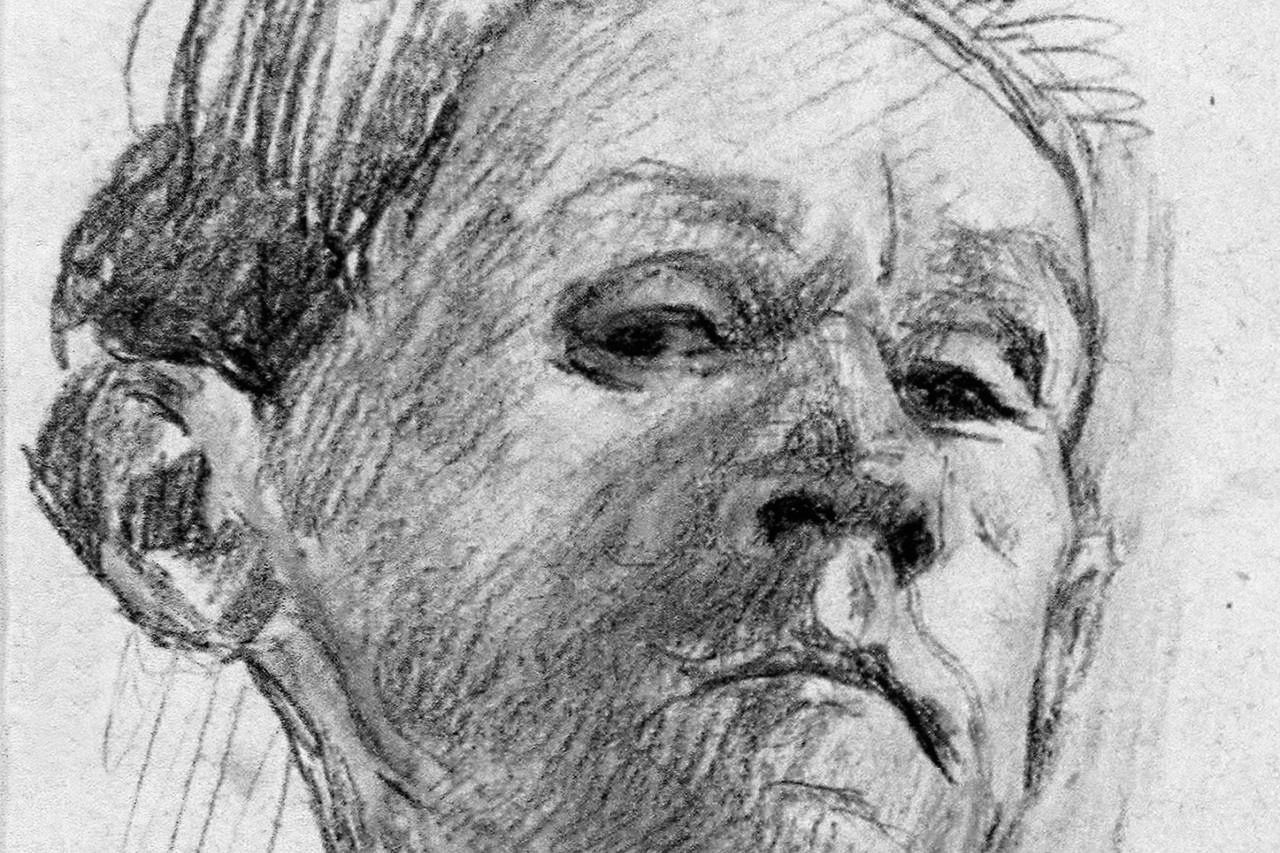
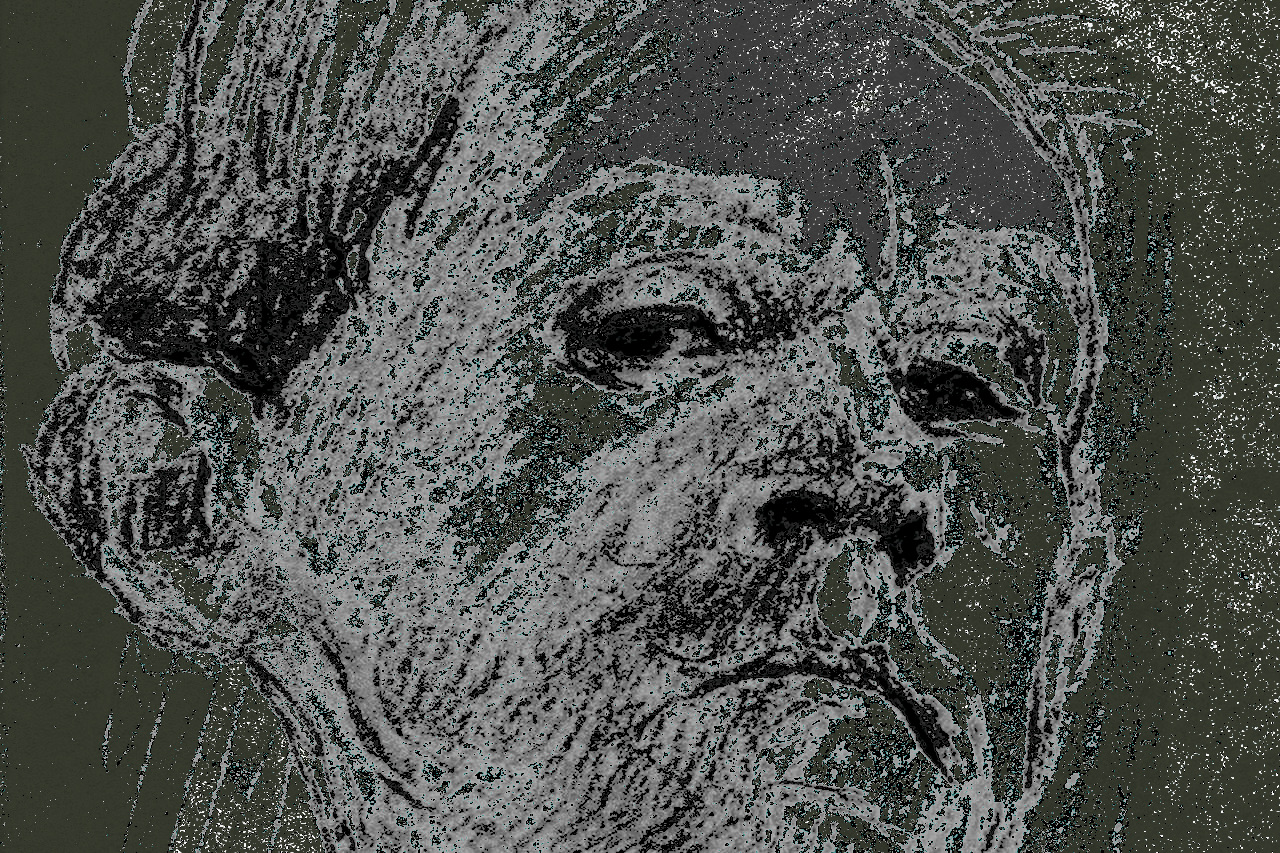
recoloured an image and changed

diff --git a/index.html b/index.html
@@ -30,7 +30,7 @@
     <h1>The Street of Crocodiles</h1>
     <h2>by Bruno Schultz</h2>
     <div class="headerimage">
-        <img class=headerimg src="crocodiles.svg" alt= "An image from the book" />
+        <img class=headerimg src="image.jpg" alt= "An image of Schultz" />
     </div>
 
      </div>
